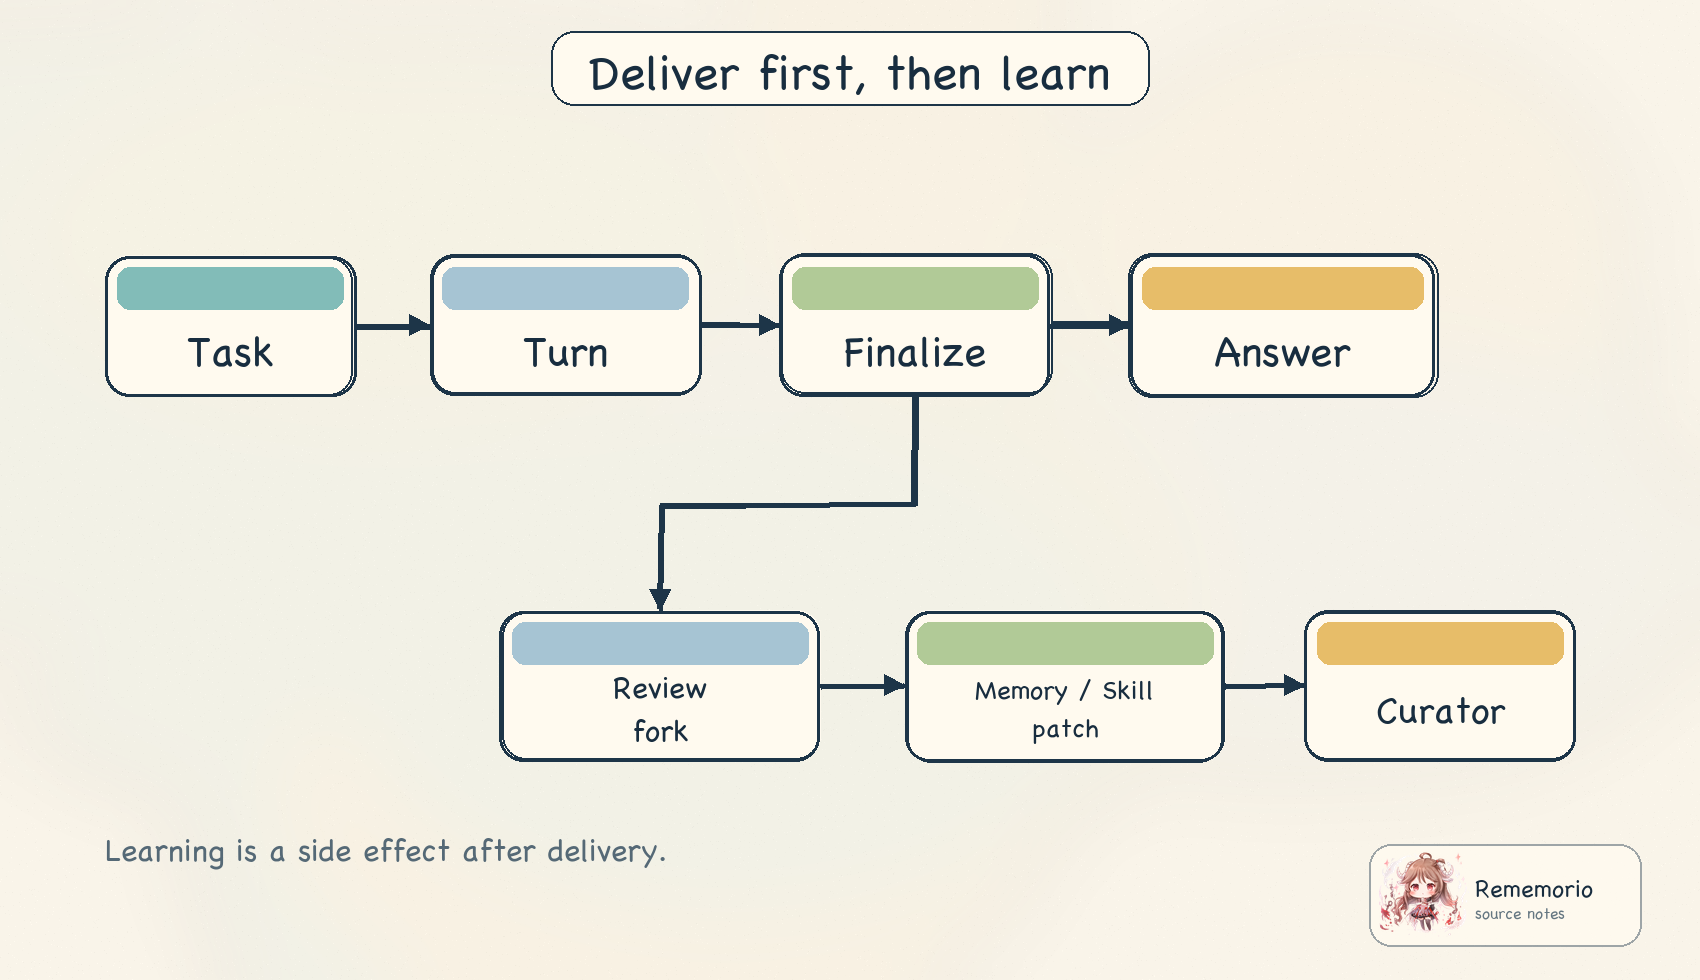
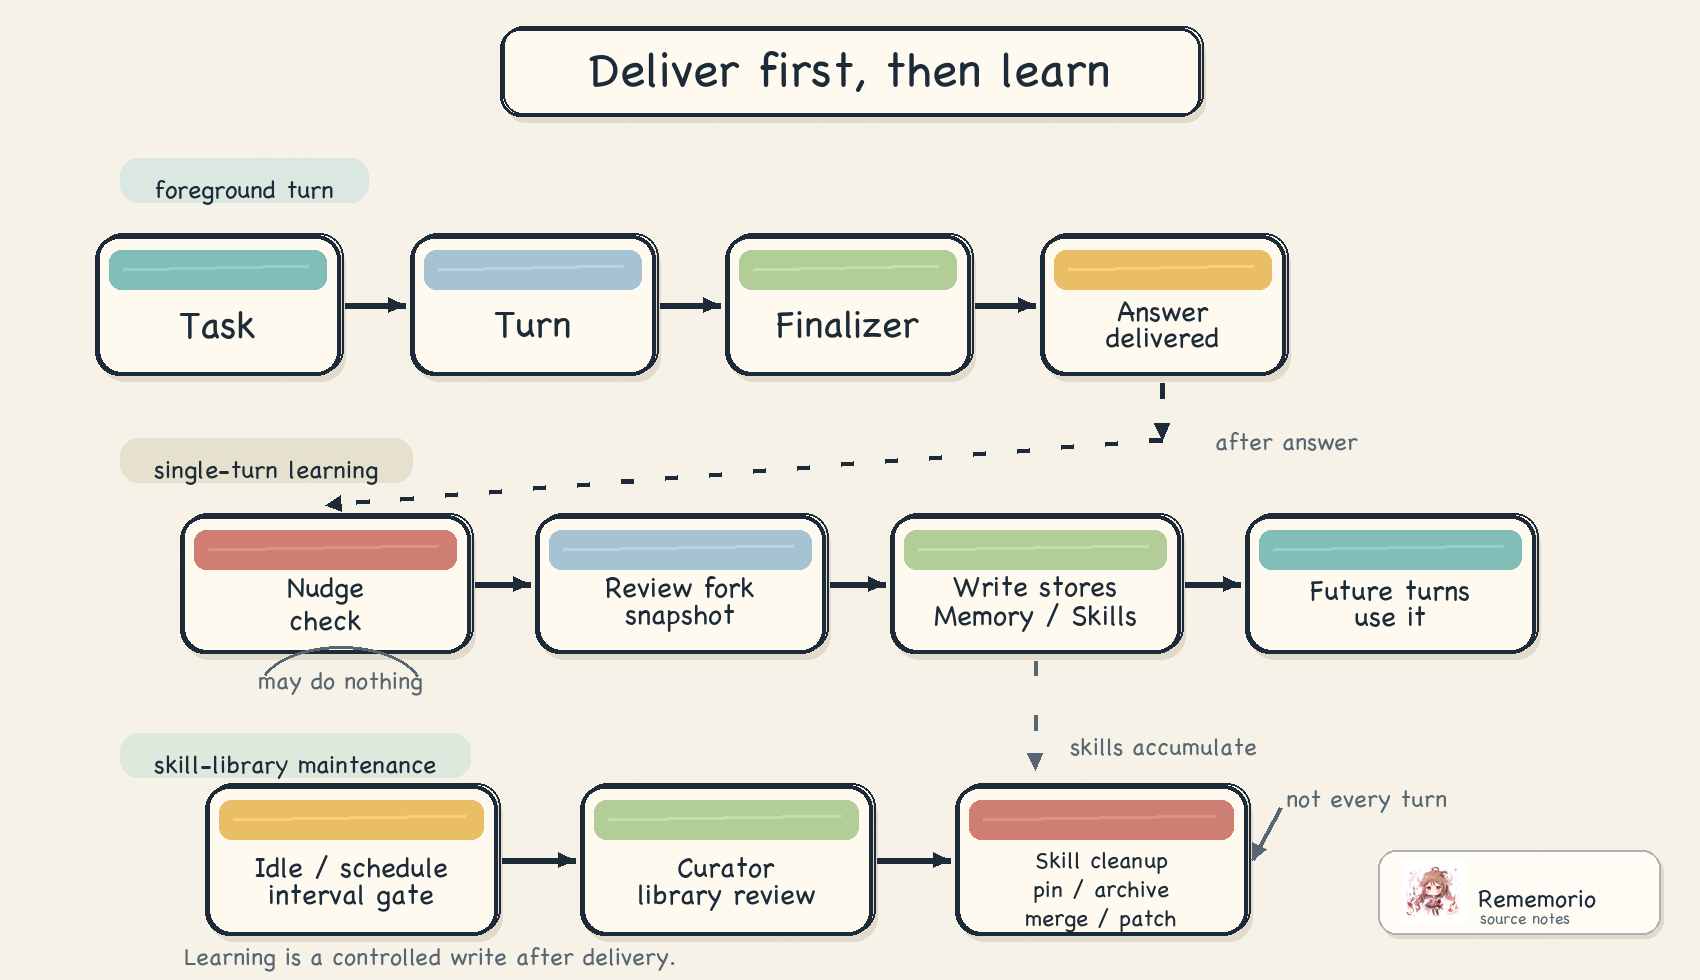
Clarify Hermes Agent self-improvement flow

diff --git a/hermes-agent/index.html b/hermes-agent/index.html
@@ -388,59 +388,146 @@
 
             <h2>六、自改进必须在交付之后发生</h2>
             <p>
-              现在可以谈“self-improving”了。很多人会把它想成模型边回答边反思，或者每轮结束都自动把对话总结成经验。
-              这两个想法都危险：前者会拖慢前台任务，后者会把一次性状态硬化成长期知识。Hermes 的做法更克制：先交付，再学习；
-              学习时还要用更窄的工具面。
+              前面讲完回合、状态账本和工具边界之后，才适合谈“self-improving”。否则这个词很容易被误解成：
+              模型一边回答一边反思自己，或者每轮结束都把整段对话总结成长期经验。听起来很聪明，实际会带来两个问题。
+              第一，当前任务还没交付，模型就开始分心判断“这件事值不值得记住”；第二，中间试错、临时路径和一次性日志可能被写成长期事实。
             </p>
 
             <figure class="figure">
               <img
                 src="./assets/self-improvement.png"
-                alt="Hermes 后台自改进路径图，展示 Task、Turn、Finalize、Answer 之后才进入 Review fork、Memory/Skill patch 和 Curator"
+                alt="Hermes 自改进流程图，展示 Answer、Finalizer、Nudge、Review fork、Write stores 和 Curator 的后置关系"
               />
               <figcaption>
-                前台回答先完成；review fork 和 curator 是后置维护路径，不应该抢当前任务的注意力。
+                先把当前回答交出去，再让受限的后台分支判断有没有东西值得沉淀。
               </figcaption>
             </figure>
 
-            <h3>6.1 Background review：同一套 runtime，窄工具面</h3>
             <p>
-              finalizer 在组装 result、执行 post hook、同步外部 memory 后，才判断是否触发 memory/skill review。源码在
+              可以从一个很普通的场景理解：你让 agent 修一个测试失败。它在过程中发现了项目的固定命令、你的提交偏好，
+              还试过几条最后没用上的路径。哪些应该留下？测试日志本身应该进 SessionDB；“以后这个项目先跑某个脚本”可能适合变成 skill；
+              “用户不希望自动改生成文件”可能适合进 Memory；那些走错的临时路径，则不该变成任何长期状态。
+            </p>
+
+            <p>
+              Hermes 的答案不是“每轮自动总结”，而是一条交付后的受控写账流程：当前 turn 先产出最终回答；
+              finalizer 只在满足条件时安排后台 review；review fork 只能使用 memory 和 skills 相关工具；
+              写入落到对应 store；之后的任务再通过正常的 memory 快照、skills 索引或检索路径看到这些变化。当前已经交付的回答不被改写，
+              主会话 transcript 也不会被后台 review 当场重写。
+            </p>
+
+            <div class="table-wrap">
+              <table>
+                <thead>
+                  <tr>
+                    <th>步骤</th>
+                    <th>发生了什么</th>
+                    <th>为什么这样安排</th>
+                  </tr>
+                </thead>
+                <tbody>
+                  <tr>
+                    <td>1. 先交付</td>
+                    <td>前台回合完成工具调用和最终回答。</td>
+                    <td>用户要的是当前任务结果，不是等待模型自我总结。</td>
+                  </tr>
+                  <tr>
+                    <td>2. 再判断</td>
+                    <td>finalizer 看本轮是否有 final response、是否被 interrupt、memory/skill nudge 是否到点。</td>
+                    <td>避免每轮都跑后台学习，也避免失败或中断回合留下错误经验。</td>
+                  </tr>
+                  <tr>
+                    <td>3. 开后台分支</td>
+                    <td>background review 拿本轮 messages snapshot，fork 一个同配置的 <code>AIAgent</code> 回看刚才发生的事。</td>
+                    <td>它能看到本轮用户消息、assistant 回复、工具调用和工具结果，但不抢前台任务的上下文。</td>
+                  </tr>
+                  <tr>
+                    <td>4. 限制能写哪里</td>
+                    <td>review fork 只能调用 memory 和 skill 管理工具，外部 memory provider 也被跳过。</td>
+                    <td>自改进只允许写长期账本，不能变成另一个能随意操作环境的 agent。</td>
+                  </tr>
+                  <tr>
+                    <td>5. 以后再生效</td>
+                    <td>写入成功后，后续 turn 通过正常的 Memory / Skills 读取路径使用它。</td>
+                    <td>学习结果影响未来任务，而不是反过来篡改已经交付的这一轮。</td>
+                  </tr>
+                </tbody>
+              </table>
+            </div>
+
+            <p>
+              所以读 Hermes 的自进化，不要先问“模型有没有反思能力”，而要问四个更具体的问题：谁触发这次学习？它能看什么？
+              它能写到哪里？写完什么时候才会影响下一轮？源码里的 background review 和 curator，正好分别回答“单轮之后学什么”
+              和“长期技能库怎么整理”。
+            </p>
+
+            <h3>6.1 Finalizer：只在回答完成后排 review</h3>
+            <p>
+              先看触发点。finalizer 在组装 result、执行 post hook、同步外部 memory 后，才判断是否触发 memory/skill review。源码在
               <a href="https://github.com/NousResearch/hermes-agent/blob/3edd09a46f721c19e47ab39aad08ce8d3e61ee20/agent/turn_finalizer.py#L375-L401">review 触发</a>
               里能看到：只有有 final response、未被 interrupt、且 memory 或 skill nudge 触发时，才调用 <code>_spawn_background_review</code>。
+              这里的 nudge 不是模型突然想到“我该学习了”，而是 runtime 的节流信号：memory nudge 按用户回合数累计，skill nudge 按工具调用迭代数累计。
+              对应计数可以看
+              <a href="https://github.com/NousResearch/hermes-agent/blob/3edd09a46f721c19e47ab39aad08ce8d3e61ee20/agent/turn_context.py#L184-L217"><code>turn_context.py</code></a>
+              和
+              <a href="https://github.com/NousResearch/hermes-agent/blob/3edd09a46f721c19e47ab39aad08ce8d3e61ee20/agent/conversation_loop.py#L516-L521"><code>conversation_loop.py</code></a>。
             </p>
 
+            <p>
+              如果前台 agent 已经主动用了 <code>memory</code> 或 <code>skill_manage</code>，对应计数会被重置；见
+              <a href="https://github.com/NousResearch/hermes-agent/blob/3edd09a46f721c19e47ab39aad08ce8d3e61ee20/agent/tool_executor.py#L263-L273">工具执行前的计数重置</a>。
+              所以后台 review 不是固定税，而是“这段时间没有显式沉淀，且现在安全结束了，再检查一次”。finalizer 不让 review 参与“当前答案怎么写”，
+              只让它在答案完成后判断“这轮结果是否暴露了可复用信息”。
+              因此它不会因为后台学习而延迟用户看到回答，也不会让 review 中途改变前台 agent 的决策路线。
+            </p>
+
+            <h3>6.2 Review fork：同一套 runtime，窄工具面</h3>
             <p>
               <a href="https://github.com/NousResearch/hermes-agent/blob/3edd09a46f721c19e47ab39aad08ce8d3e61ee20/agent/background_review.py#L1-L17"><code>background_review.py</code> 的模块说明</a>
-              说得很清楚：fork 一个 agent 回看本轮对话，判断是否保存或更新 memory/skill；写入直接落到 store，主会话和 prompt cache 不被触碰。
-              真正构造 review agent 的逻辑在
+              把这个分支的职责写得很直接：它拿刚完成的 conversation snapshot，fork 一个 agent 回看本轮对话，判断是否应该保存或更新 memory / skill；
+              写入直接落到对应 store，主会话和 prompt cache 不被触碰。真正构造 review agent 的逻辑在
               <a href="https://github.com/NousResearch/hermes-agent/blob/3edd09a46f721c19e47ab39aad08ce8d3e61ee20/agent/background_review.py#L327-L416"><code>_run_review_in_thread</code></a>。
+              这里的 snapshot 不是只有最终答案，还包括本轮 history 里的工具调用和工具结果，所以 review 能区分“最后采用的做法”和“中途试过但失败的路径”。
             </p>
 
             <p>
-              这里有两个保护边界。第一，review fork 继承父 agent 的 provider、model、credential 等运行条件，但 <code>skip_memory=True</code>，
-              避免外部 memory provider 被 review harness 污染。第二，它设置 tool whitelist，只允许 memory 和 skills 相关工具；见
+              这个 fork 不是一个“第二个前台助手”。它继承父 agent 的 provider、model、credential、toolset 配置和 cached system prompt，
+              这样判断语境和请求形状尽量一致；但它用 <code>skip_memory=True</code> 避免外部 memory provider 把 review prompt 当成用户真实对话吸收进去。
+              同时，它把工具面收窄到 memory 和 skills，非白名单工具会在 runtime 被拒绝；见
               <a href="https://github.com/NousResearch/hermes-agent/blob/3edd09a46f721c19e47ab39aad08ce8d3e61ee20/agent/background_review.py#L470-L495">白名单和 run_conversation 调用</a>。
-              这让“学习”变成受控副作用，而不是另一个能随意操作世界的前台 agent。
+              这让“学习”变成受控副作用：它可以写账，但不能继续执行用户任务。
             </p>
 
-            <h3>6.2 Curator：不是每轮反思，而是空闲维护</h3>
             <p>
-              如果 background review 解决的是“这一轮之后是否有东西要沉淀”，curator 解决的是“长期技能库是否需要整理”。
+              写入之后也不是马上反向改写当前回合。Memory 写入会落盘，但当前 system prompt 里的 memory snapshot 仍然是本轮开始时的快照；
+              skill 变更会影响后续 skills 索引的构造或失效路径。换句话说，后台 review 的结果服务于下一次任务，不会把已经交付的答案重新加工一遍。
+            </p>
+
+            <p>
+              Review 完成后还会扫描自己的 tool 结果；只有真的创建或更新了 memory / skill，才向前台汇报一个很短的 self-improvement summary。
+              相关汇总逻辑在
+              <a href="https://github.com/NousResearch/hermes-agent/blob/3edd09a46f721c19e47ab39aad08ce8d3e61ee20/agent/background_review.py#L516-L537">action summary</a>。
+              这也是一个产品细节：用户看到的是“沉淀了什么”，不是另一个冗长的后台推理过程。
+            </p>
+
+            <h3>6.3 Curator：不是每轮反思，而是长期整理</h3>
+            <p>
+              Background review 解决的是“这一轮之后是否有东西要沉淀”。但如果 agent 长期运行，skills 会越来越多：有的被频繁使用，
+              有的过期了，有的其实可以合并。这时需要的不是再看某一轮对话，而是整理整个技能库。Hermes 里的 curator 就是这个角色。
               <a href="https://github.com/NousResearch/hermes-agent/blob/3edd09a46f721c19e47ab39aad08ce8d3e61ee20/agent/curator.py#L1-L20"><code>curator.py</code> 的文件说明</a>
               写明它会周期性 review agent-created skills，做 lifecycle 状态迁移，必要时 fork 一个 AIAgent 去 pin、archive、consolidate 或 patch 技能。
             </p>
 
             <p>
-              这不是“每轮都整理一次技能”。<code>should_run_now</code> 会检查 enabled、paused 和 interval gate；首次观察只播种 last_run_at，不立即运行，见
+              Curator 不是“每轮都整理一次技能”。<code>should_run_now</code> 会检查 enabled、paused 和 interval gate；首次观察只播种 last_run_at，不立即运行，见
               <a href="https://github.com/NousResearch/hermes-agent/blob/3edd09a46f721c19e47ab39aad08ce8d3e61ee20/agent/curator.py#L198-L248"><code>should_run_now</code></a>。
               自动状态迁移会把长期未活跃技能标记 stale 或 archived，pinned 不动，见
               <a href="https://github.com/NousResearch/hermes-agent/blob/3edd09a46f721c19e47ab39aad08ce8d3e61ee20/agent/curator.py#L255-L310"><code>apply_automatic_transitions</code></a>。
             </p>
 
             <p>
-              这一步再次体现 Hermes 的克制：短期任务由前台 turn 解决，单轮知识沉淀由 background review 解决，技能库长期卫生由 curator 解决。
-              三者都叫“改进”，但不共享同一个触发时机。
+              到这里，自进化的流程就完整了：短期任务由前台 turn 解决；单轮之后的偏好和流程沉淀由 background review 解决；
+              多轮累积后的技能库膨胀、过期和合并问题由 curator 解决。三者都叫“改进”，但触发时机、可见上下文和可写范围都不同。
             </p>
 
             <h2>七、多入口共享核心，但不能共享所有权限</h2>
